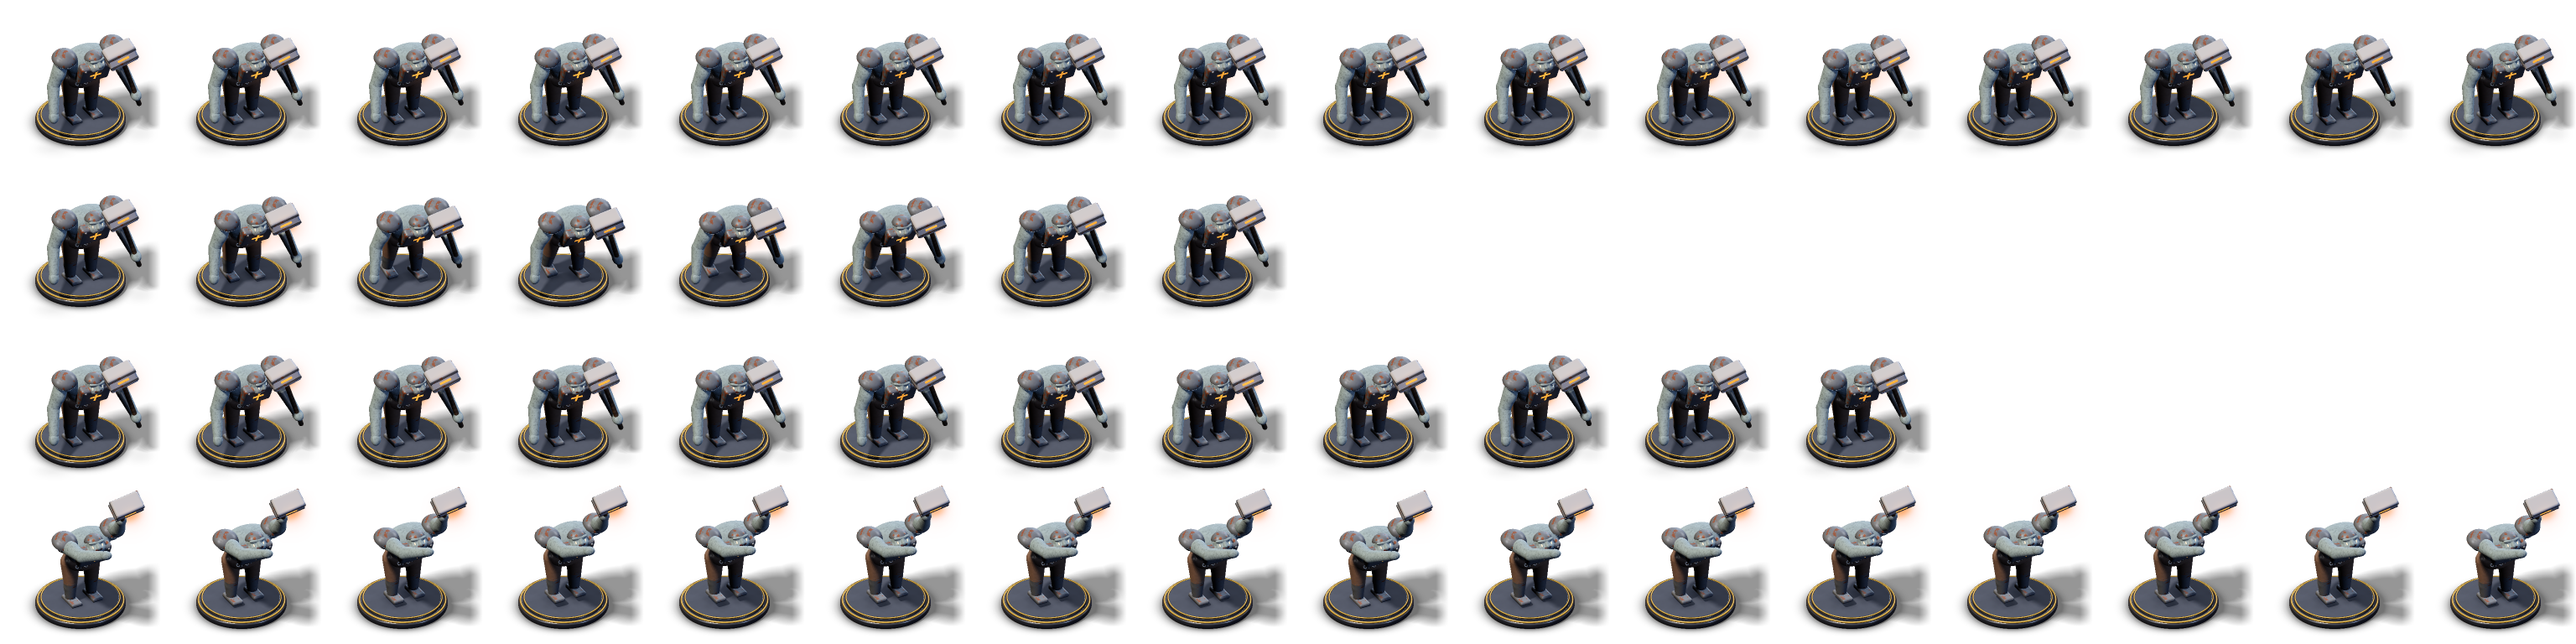
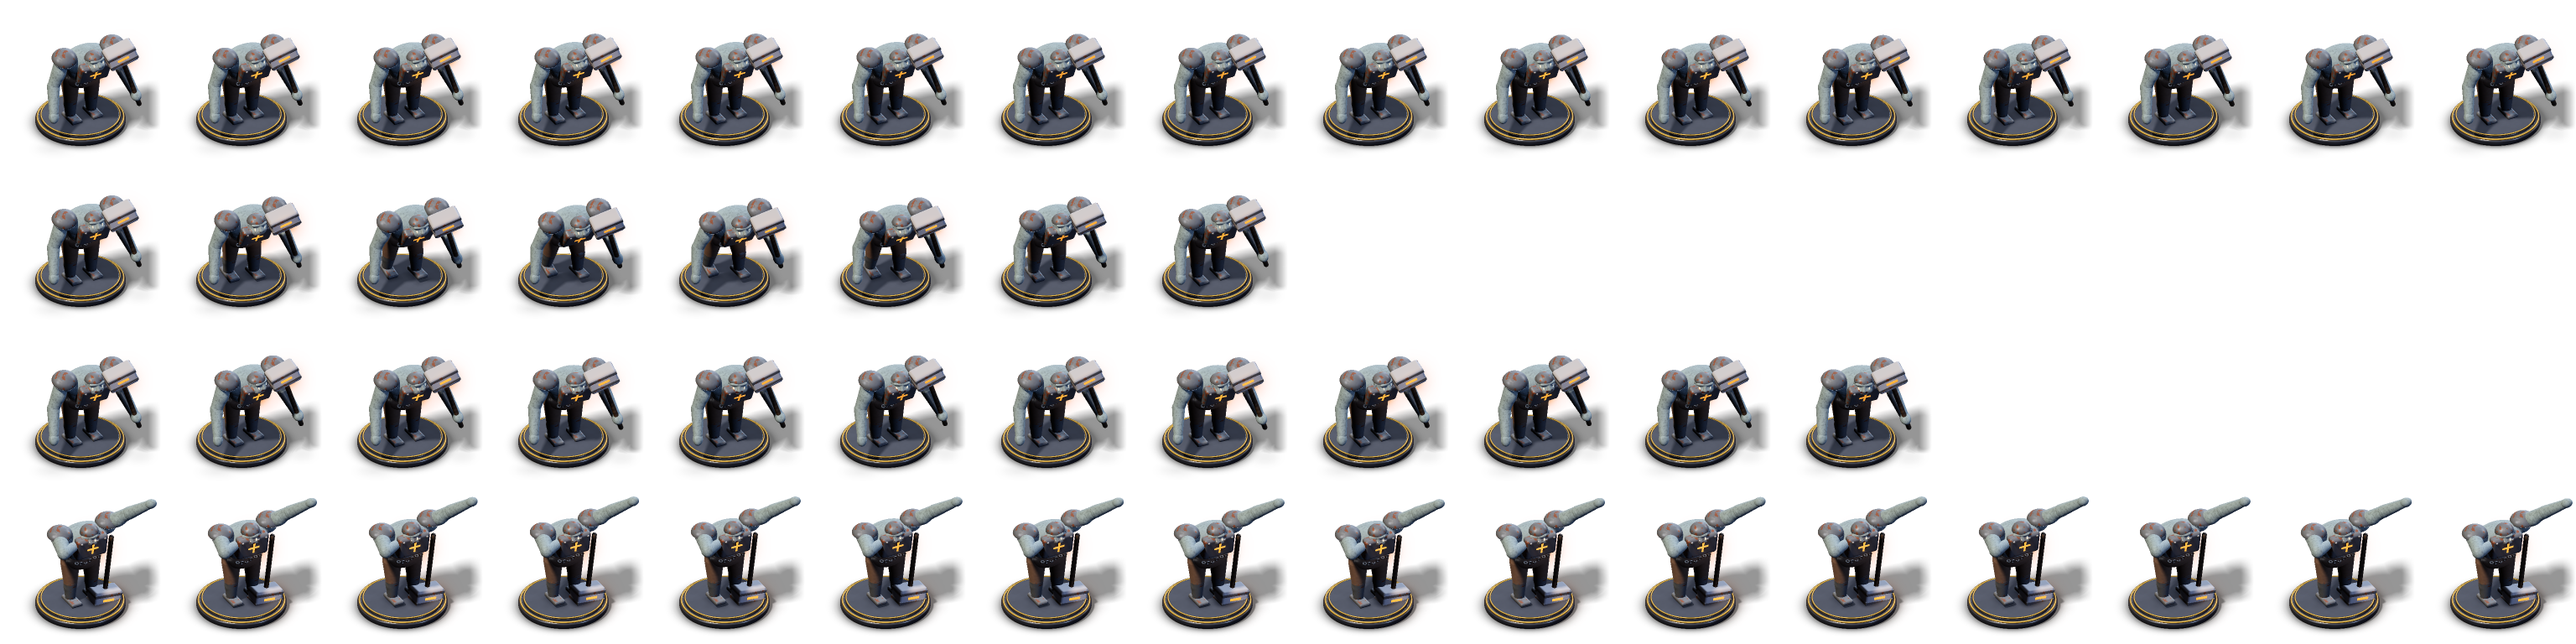
Légendes: MCTS ResNet's war troll dabs when it wins (right arm stretched up and out, face buried in the left elbow, a little pulse twice per loop; the hammer set down beside it, head on the base, so everything stays in the frame); loop checked (wrap 0.00), both sheets re-rendered

Changed region(s): [[0.0, 0.75, 1.0, 0.9688]]

diff --git a/app/tools/sprites/epic.py b/app/tools/sprites/epic.py
@@ -454,9 +454,14 @@ def war_troll(anim, t, side):
     p = base_pose(anim, t)
     p.r = [0.5, 0.35, 0.9]
     p.l = [0.4, 0.4, 0.5]
-    if anim == "win":
-        p.r = [2.6, 0.25, 0.25]
-        p.l = [2.0, 0.6, 0.5]
+    if anim == "win":                 # a dab: the right arm stretched up and out, the face buried in the left elbow (the hammer set down beside)
+        k = 0.5 + 0.5 * wave(t, 2)    # a little pulse, twice per loop (periodic)
+        p.r = [0.55, 2.55 + 0.06 * k, 0.05]
+        p.l = [1.25, 1.95, 2.45]
+        p.pitch = 0.55 + 0.05 * k
+        p.yaw = -0.5
+        p.lean = -0.25
+        p.jump = 0.03 * abs(math.sin(TAU * t))
     sk = warty("#424c4e")
     plate = rust("#4a4c50")
     m = {"skin": sk, "top": sk, "legs": cloth("#3a2a20"), "boots": plate, "arms": sk}
@@ -476,6 +481,8 @@ def war_troll(anim, t, side):
     x, r = rig["head"], rig["hr"]
     sc.add(sd_plane_cut(sd_ellipsoid(r * 1.15, r * 0.95, r * 1.1), (0, -1, 0), -r * 0.1), plate, x * T(0, r * 0.2, -r * 0.05))
     mm = held(rig["r"], -math.pi if anim == "win" else -1.0)
+    if anim == "win":                 # the dab: the hammer set down, head on the base, the handle leaning on the troll's side
+        mm = rig["body"] * T(0.27, BASE_TOP + 0.58, 0.12) * RZ(math.pi - 0.12)
     sc.add(sd_capsule((0, -0.12, 0), (0, 0.5, 0), 0.022), wood("#2a1d12"), mm)
     sc.add(sd_box(0.15, 0.09, 0.09, 0.025), Mat("#5a5a5e", rough=0.8), mm * T(0, 0.55, 0))
     sc.add(sd_box(0.152, 0.015, 0.092, 0.005), plate, mm * T(0, 0.5, 0))
